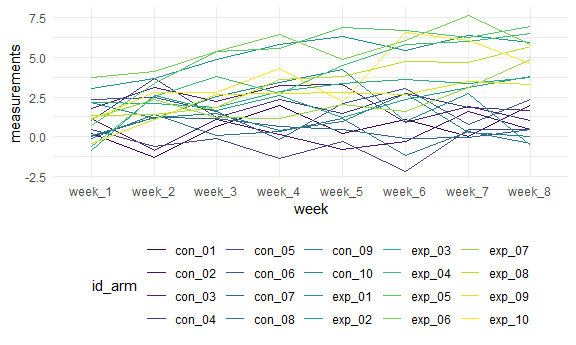
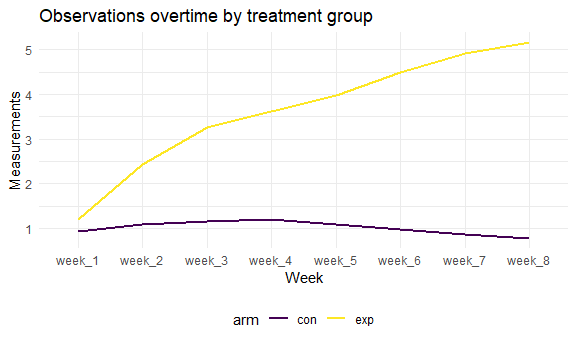
fixing graph in prob 2 and last min edits

diff --git a/p8105_hw5_smv2138.md b/p8105_hw5_smv2138.md
@@ -6,14 +6,14 @@ Sushupta Vijapur (smv2138)
 library(tidyverse)
 ```
 
-    ## -- Attaching packages ------------------------------------------------------------------------------------------------------ tidyverse 1.3.0 --
+    ## -- Attaching packages ------------------------------------------------------------------------------------------------------------------ tidyverse 1.3.0 --
 
     ## v ggplot2 3.3.2     v purrr   0.3.4
     ## v tibble  3.0.3     v dplyr   1.0.2
     ## v tidyr   1.1.2     v stringr 1.4.0
     ## v readr   1.3.1     v forcats 0.5.0
 
-    ## -- Conflicts --------------------------------------------------------------------------------------------------------- tidyverse_conflicts() --
+    ## -- Conflicts --------------------------------------------------------------------------------------------------------------------- tidyverse_conflicts() --
     ## x dplyr::filter() masks stats::filter()
     ## x dplyr::lag()    masks stats::lag()
 
@@ -406,25 +406,35 @@ path_df =
 #### Part 2
 
 Make a spaghetti plot showing observations on each subject over time,
-and comment on differences between groups.
+and comment on differences between groups. Seperate id and arm and group
+by id
 
 ``` r
 path_df %>% 
+  separate(id_arm, c("arm", "id"), convert = TRUE) %>% 
   pivot_longer(
     week_1:week_8,
     names_to = "week",
     values_to = "measurements"
-  ) %>% 
-  ggplot(aes(x = week, y = measurements, group = id_arm)) +
-  geom_line(aes(color = id_arm))
+  ) %>%
+  group_by(id) %>% 
+  ggplot(aes(x = week, y = measurements, group = arm)) +
+    geom_smooth(aes(color = arm), se = FALSE) +
+  labs(
+    title = "Observations overtime by treatment group",
+    x = "Week",
+    y = "Measurements"
+  )
 ```
+
+    ## `geom_smooth()` using method = 'loess' and formula 'y ~ x'
 
 <img src="p8105_hw5_smv2138_files/figure-gfm/unnamed-chunk-9-1.png" width="90%" />
 
 The experimental groups have higher measurements compared to the control
 groups. It also seems as though the measurements for the experimental
 groups are increasing over time while the measurements for the control
-groups remain steady over time.
+groups remain steady and decreasing a little over time.
 
 ## Problem 3
 
@@ -450,7 +460,7 @@ data =
       mu = c(0, 1, 2, 3, 4, 5, 6)
     ) %>% 
           mutate(
-            output = map(.x = mu, ~ rerun(100, t_test(mu = .x))),
+            output = map(.x = mu, ~ rerun(5000, t_test(mu = .x))),
             results = map(output, bind_rows),
             true_mu = mu,
           ) %>% 
@@ -589,6 +599,6 @@ The average estimated my across tests where the null hypothesis was
 rejected did not equal the true value of mu until the true value
 approached approximately 4. When the true mu was less than 4, the
 estimated mu was larger among the rejected tests was larger than the
-estimated mu among all tests (except when the true mu was 0, there were
-some estimated means in the rejected tests that were below the true mu
-value).
+estimated mu among all tests (except when the true mu was 0). Therefore,
+we can see when we only include those tests which were rejected, the
+estimated mu is not close to the true mu.
